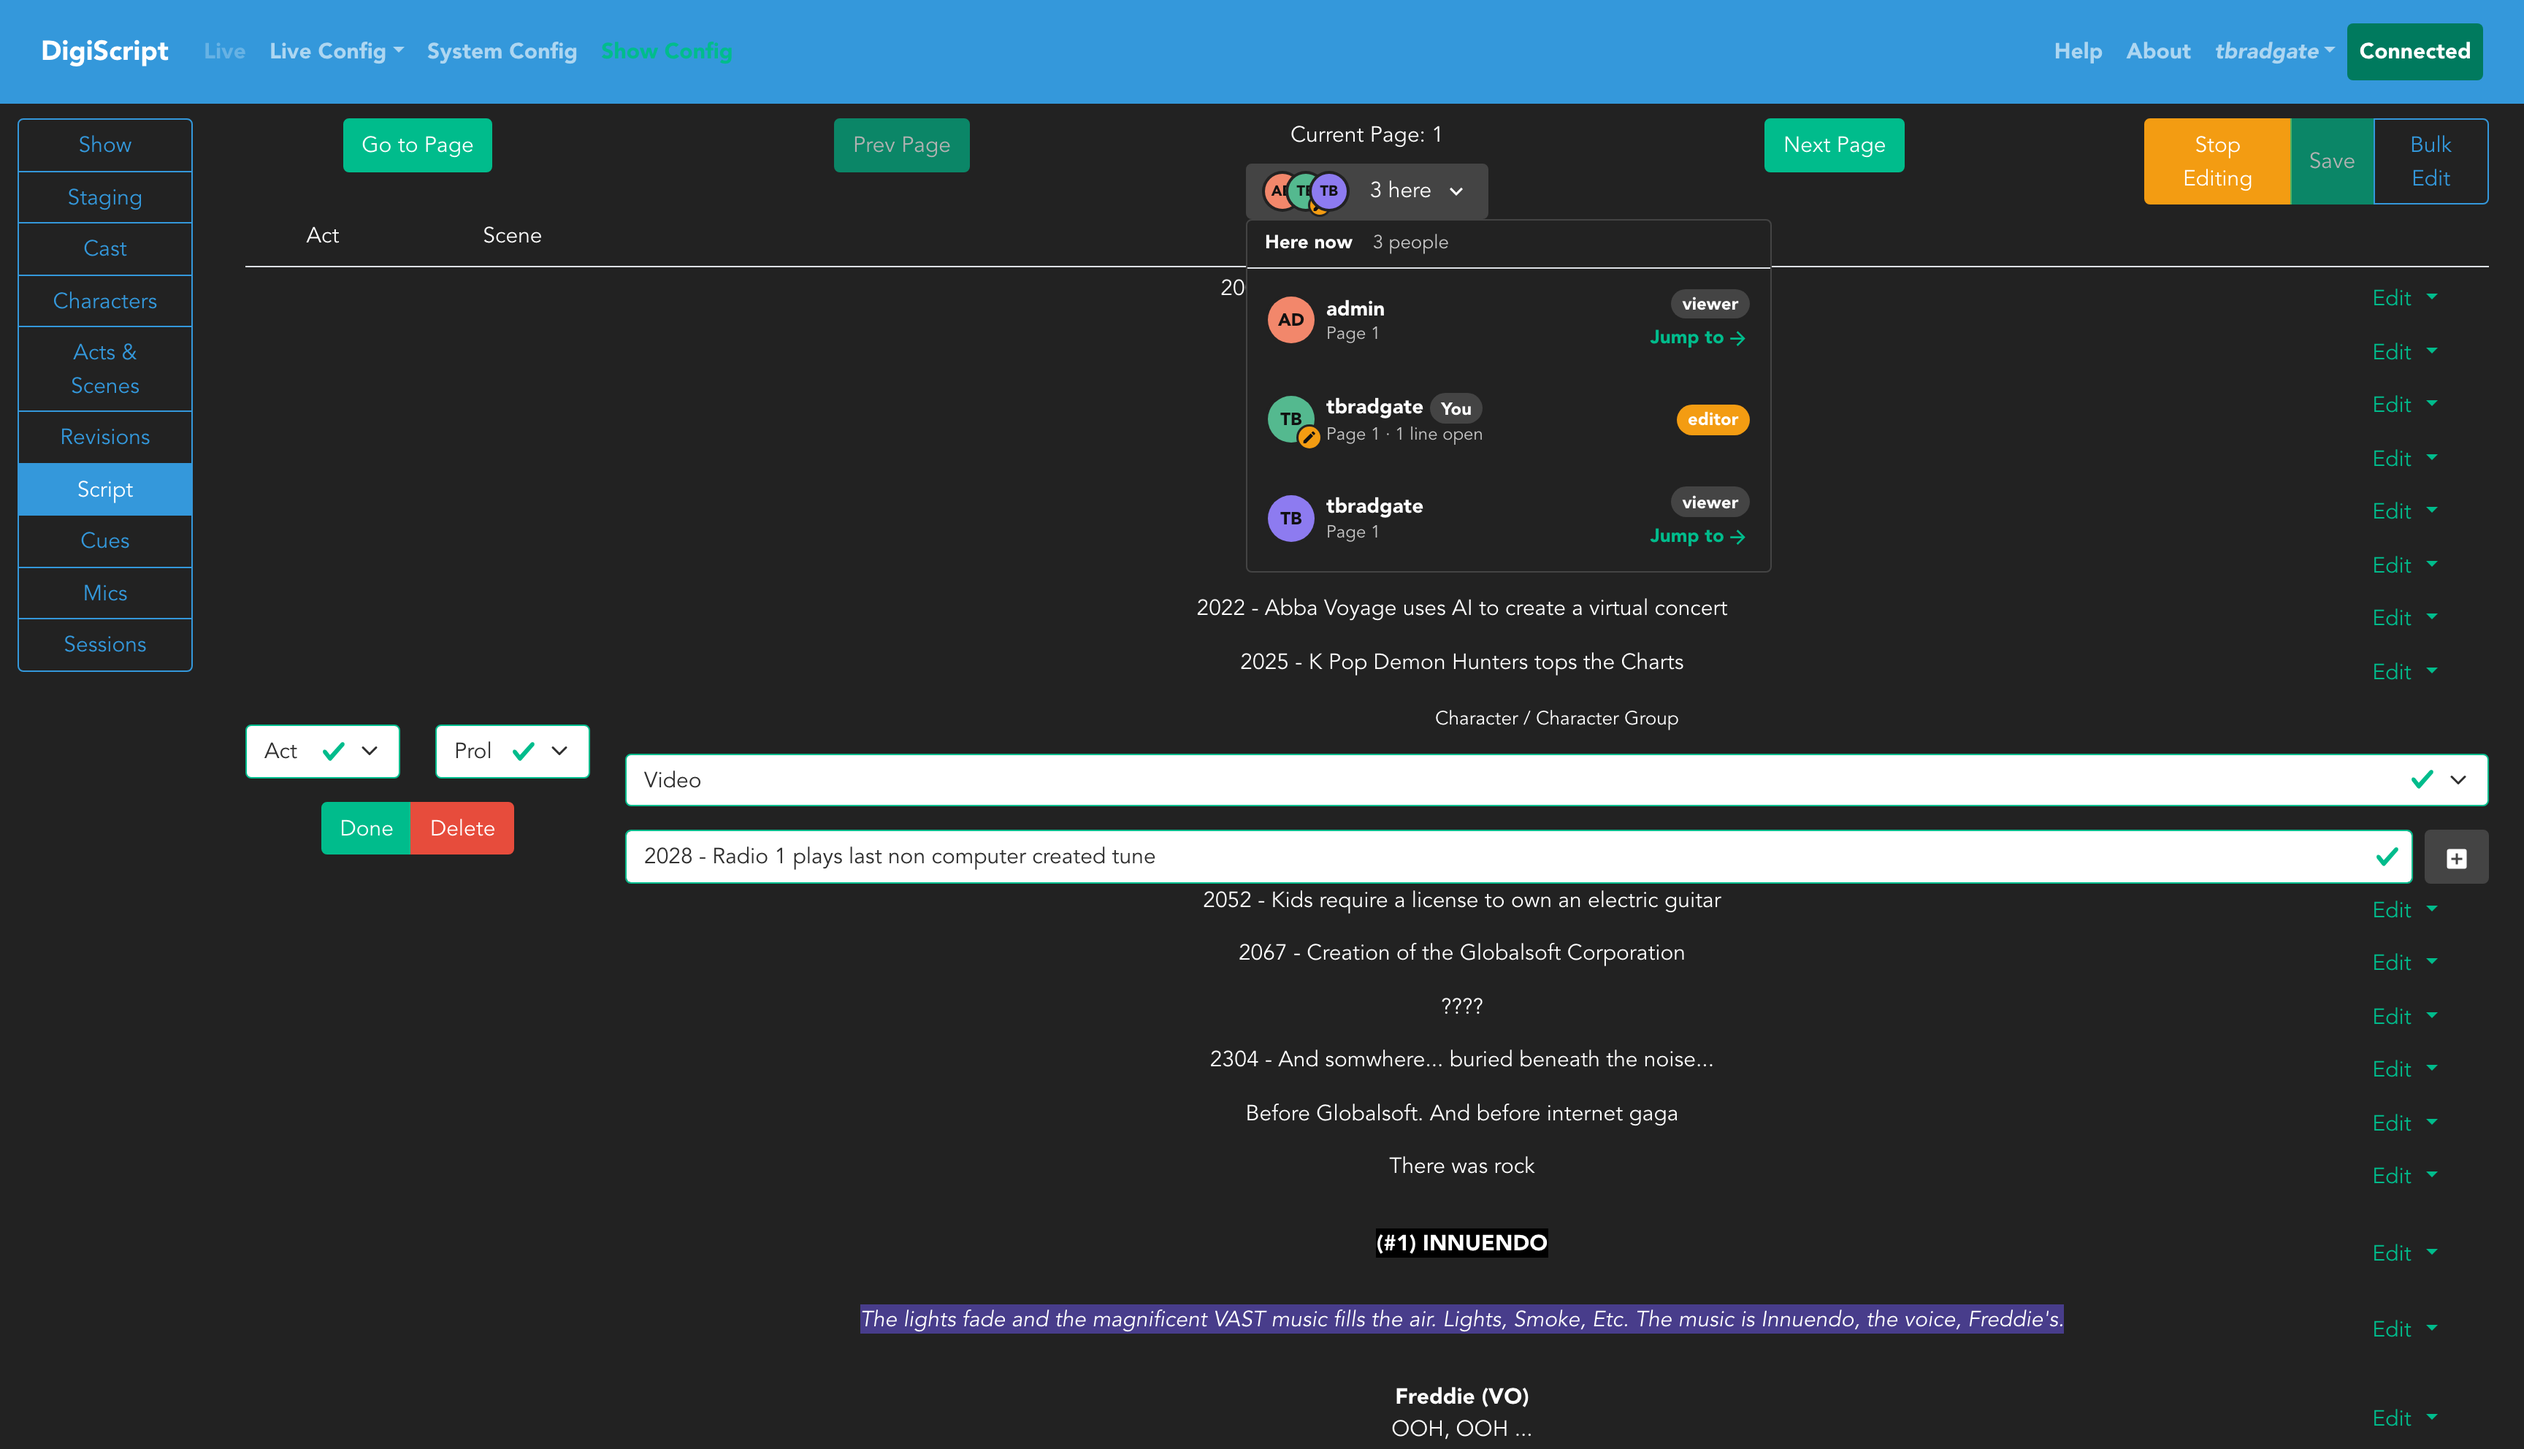
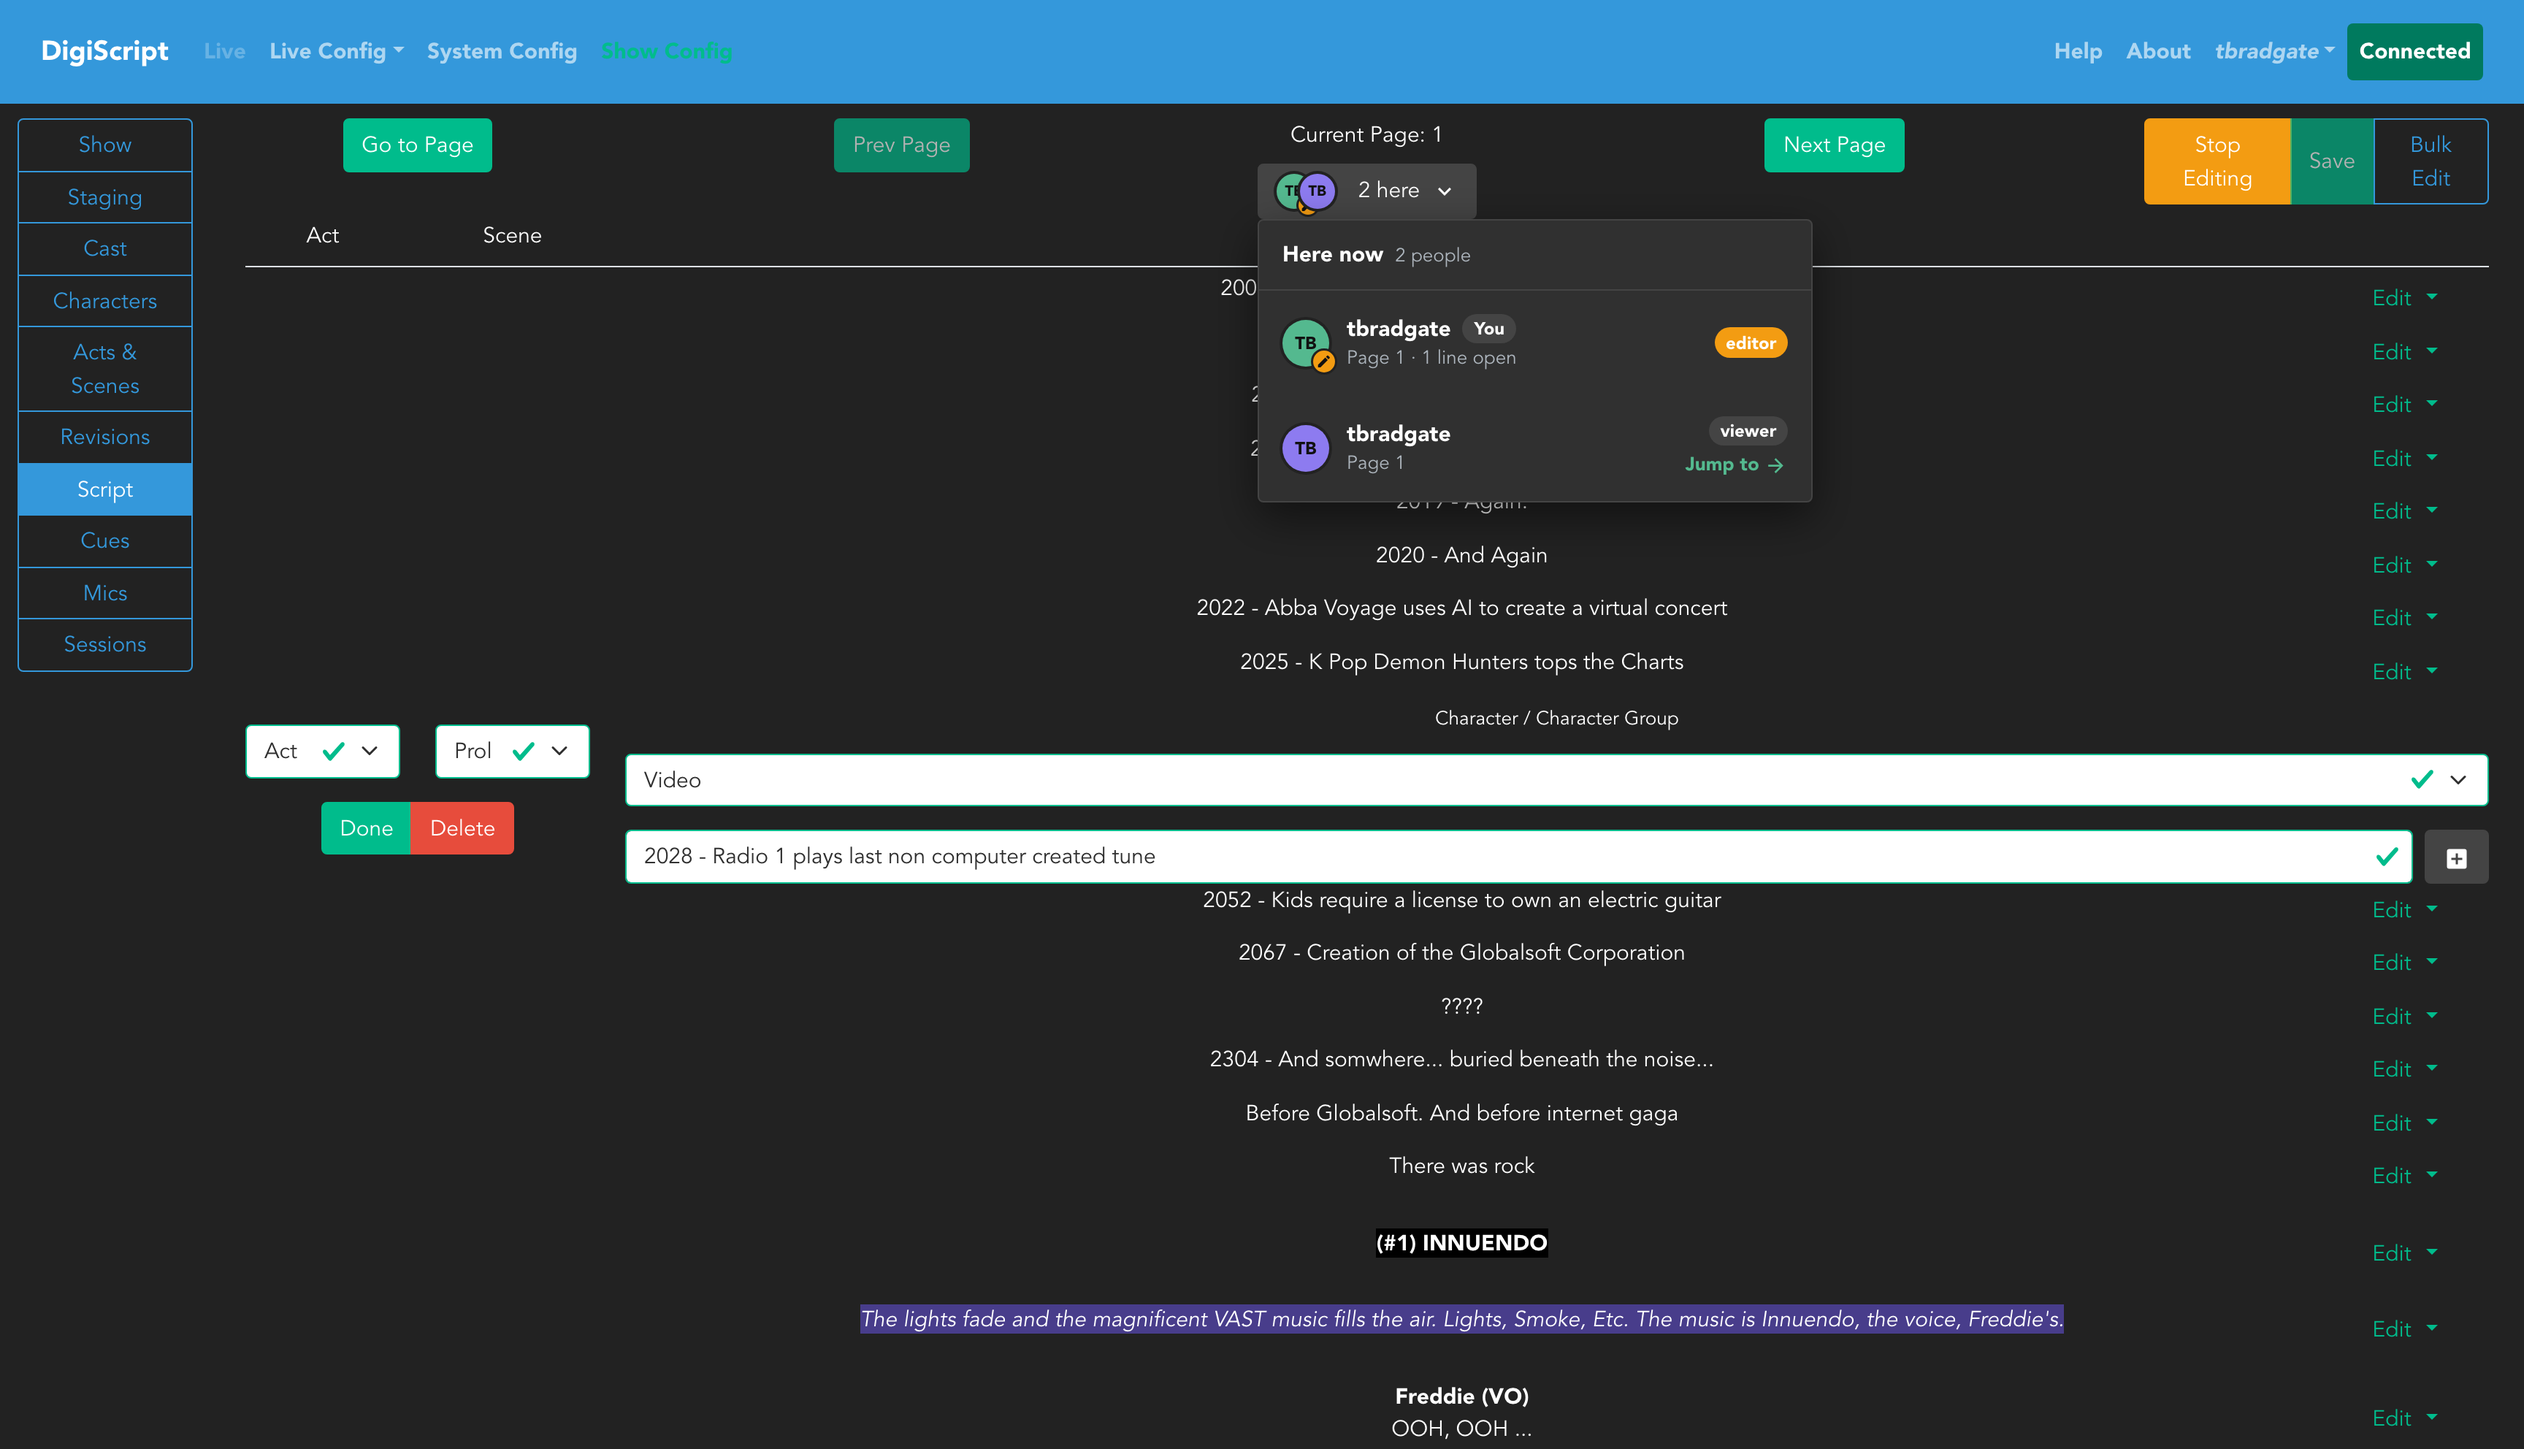
Fix presence popover's own header separator and chrome to match the design
The "white line" Tim kept seeing wasn't a sticky-header stacking bug after
all (that one was real and already fixed, confirmed clean via pixel-level
inspection of the committed screenshots) — it was the popover's own "Here
now" header separator, styled with var(--bs-border-color), which resolves
close to white/light-gray against the popover's dark background. The
design specifies a dark #444 border here, not Bootstrap's light-theme
default.

While fixing that, matched the rest of the popover's chrome to the design
precisely rather than approximately: #303030 background, #444 border,
380px width (was 360px), 12px/16px header padding, 56px row min-height,
and the exact text colors/sizes for the page/line subtext and "Jump to"
affordance. Removed stray Bootstrap utility classes (text-muted,
text-success) that would have fought these with their own !important
colors.

Re-verified pixel-by-pixel (not just visually) that the original
sticky-header fix still holds with no regression, then recaptured both
docs screenshots again at native resolution against the real dev server.

diff --git a/client/src/components/show/config/script/CollabScriptEditor.vue b/client/src/components/show/config/script/CollabScriptEditor.vue
@@ -43,7 +43,7 @@
 
             <div class="presence-popover-header">
               <strong>Here now</strong>
-              <span class="text-muted ms-2">{{ presenceEntries.length }} people</span>
+              <span class="presence-people-count">{{ presenceEntries.length }} people</span>
             </div>
             <template v-for="entry in presenceEntries" :key="entry.key">
               <!-- `presence-row-item` (for locating a row) stays on BDropdownForm/
@@ -65,7 +65,7 @@
                       {{ entry.username }}
                       <BBadge pill variant="secondary" class="presence-you-pill">You</BBadge>
                     </span>
-                    <span class="presence-row-sub text-muted">{{ entry.subText }}</span>
+                    <span class="presence-row-sub">{{ entry.subText }}</span>
                   </span>
                   <span class="presence-row-side">
                     <BBadge pill :variant="entry.roleVariant" class="presence-role-pill">{{
@@ -89,13 +89,13 @@
                   />
                   <span class="presence-row-body">
                     <span class="presence-row-name">{{ entry.username }}</span>
-                    <span class="presence-row-sub text-muted">{{ entry.subText }}</span>
+                    <span class="presence-row-sub">{{ entry.subText }}</span>
                   </span>
                   <span class="presence-row-side">
                     <BBadge pill :variant="entry.roleVariant" class="presence-role-pill">{{
                       entry.role
                     }}</BBadge>
-                    <span v-if="entry.page != null" class="presence-jump text-success">
+                    <span v-if="entry.page != null" class="presence-jump">
                       Jump to <IMdiArrowRight />
                     </span>
                   </span>
@@ -1355,13 +1355,20 @@ onBeforeUnmount(() => {
 .presence-stack > * + * {
   margin-left: -8px;
 }
+/* Matches the design's own dark popover chrome exactly (#303030/#444), not
+   Bootstrap's light-theme dropdown-menu defaults (var(--bs-border-color) etc,
+   which read as a near-white line against this dark background — that's what
+   looked like a stray "white line" cutting through the popover). */
 .presence-popover-header {
   display: flex;
   align-items: baseline;
-  gap: 6px;
-  padding: 0.375rem 0.75rem;
-  font-size: 0.8125rem;
-  border-bottom: 1px solid var(--bs-border-color);
+  gap: 8px;
+  padding: 12px 16px;
+  border-bottom: 1px solid #444;
+}
+.presence-popover-header .presence-people-count {
+  color: #adb5bd;
+  font-size: 13px;
 }
 /* The actual row layout. Deliberately NOT a class on BDropdownForm/BDropdownItem
    themselves — both apply a slotted `class` to their own outer <li>, not the
@@ -1370,9 +1377,9 @@ onBeforeUnmount(() => {
 .presence-row {
   display: flex;
   align-items: center;
-  gap: 0.5rem;
+  gap: 12px;
   width: 100%;
-  padding: 0.25rem 0;
+  min-height: 56px;
   text-align: left;
 }
 .presence-row-body {
@@ -1380,14 +1387,17 @@ onBeforeUnmount(() => {
   min-width: 0;
   display: flex;
   flex-direction: column;
-  line-height: 1.3;
 }
 .presence-row-name {
+  display: flex;
+  align-items: center;
+  gap: 8px;
   font-weight: 700;
-  font-size: 0.875rem;
 }
 .presence-row-sub {
-  font-size: 0.75rem;
+  color: #adb5bd;
+  font-size: 13px;
+  line-height: 19px;
 }
 /* The right-hand column: role pill, and (for anyone but self) "Jump to" below it —
    matches the design's two-column row rather than crowding everything onto the
@@ -1401,13 +1411,14 @@ onBeforeUnmount(() => {
 }
 .presence-you-pill,
 .presence-role-pill {
-  font-size: 0.75rem;
+  font-size: 12px;
 }
 .presence-jump {
   display: flex;
   align-items: center;
-  gap: 2px;
-  font-size: 0.8125rem;
+  gap: 4px;
+  color: #54b98f;
+  font-size: 13px;
   font-weight: 600;
   white-space: nowrap;
 }
@@ -1423,14 +1434,23 @@ onBeforeUnmount(() => {
   gap: 8px;
 }
 .presence-menu {
-  width: 360px;
+  width: 380px;
   padding: 0;
+  background: #303030;
+  border: 1px solid #444;
+  box-shadow: 0 10px 30px rgba(0, 0, 0, 0.5);
   /* Without `!important` this loses to Bootstrap's own `.dropdown-menu.show` rule
      (two classes vs. this one) regardless of source order. */
   z-index: 1060 !important;
 }
 .presence-menu .dropdown-item-text,
 .presence-menu .dropdown-item {
-  padding: 0.625rem 0.875rem;
+  padding: 8px 16px;
+  color: #fff;
+}
+.presence-menu .dropdown-item:hover,
+.presence-menu .dropdown-item:focus {
+  background: rgba(255, 255, 255, 0.06);
+  color: #fff;
 }
 </style>
